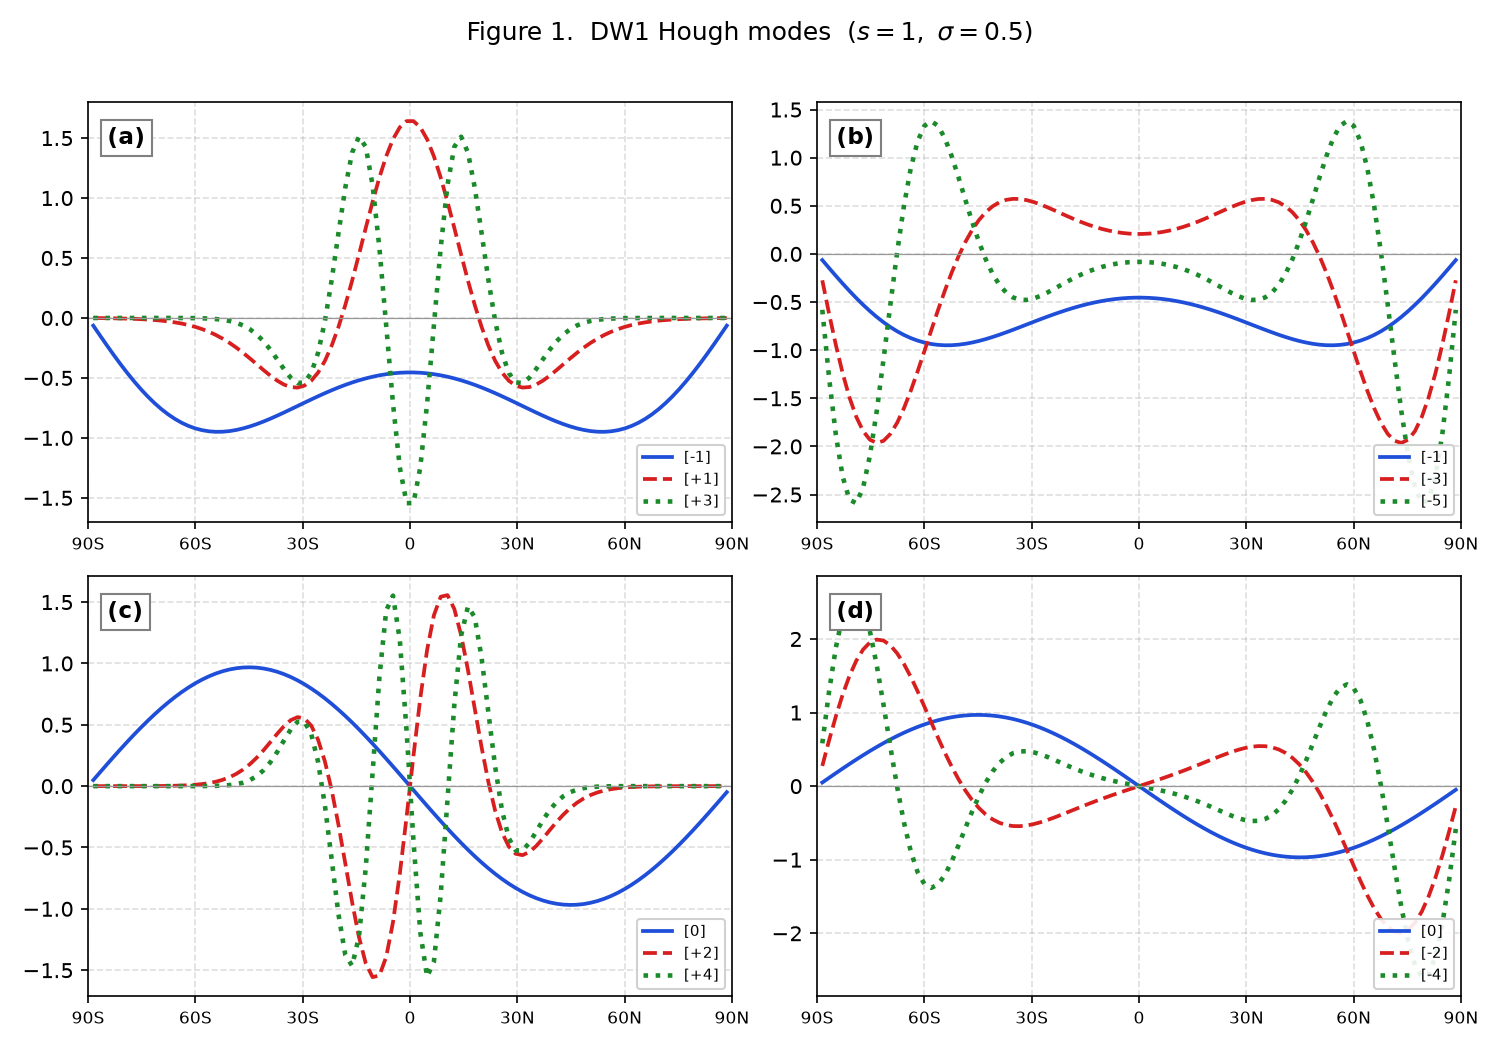
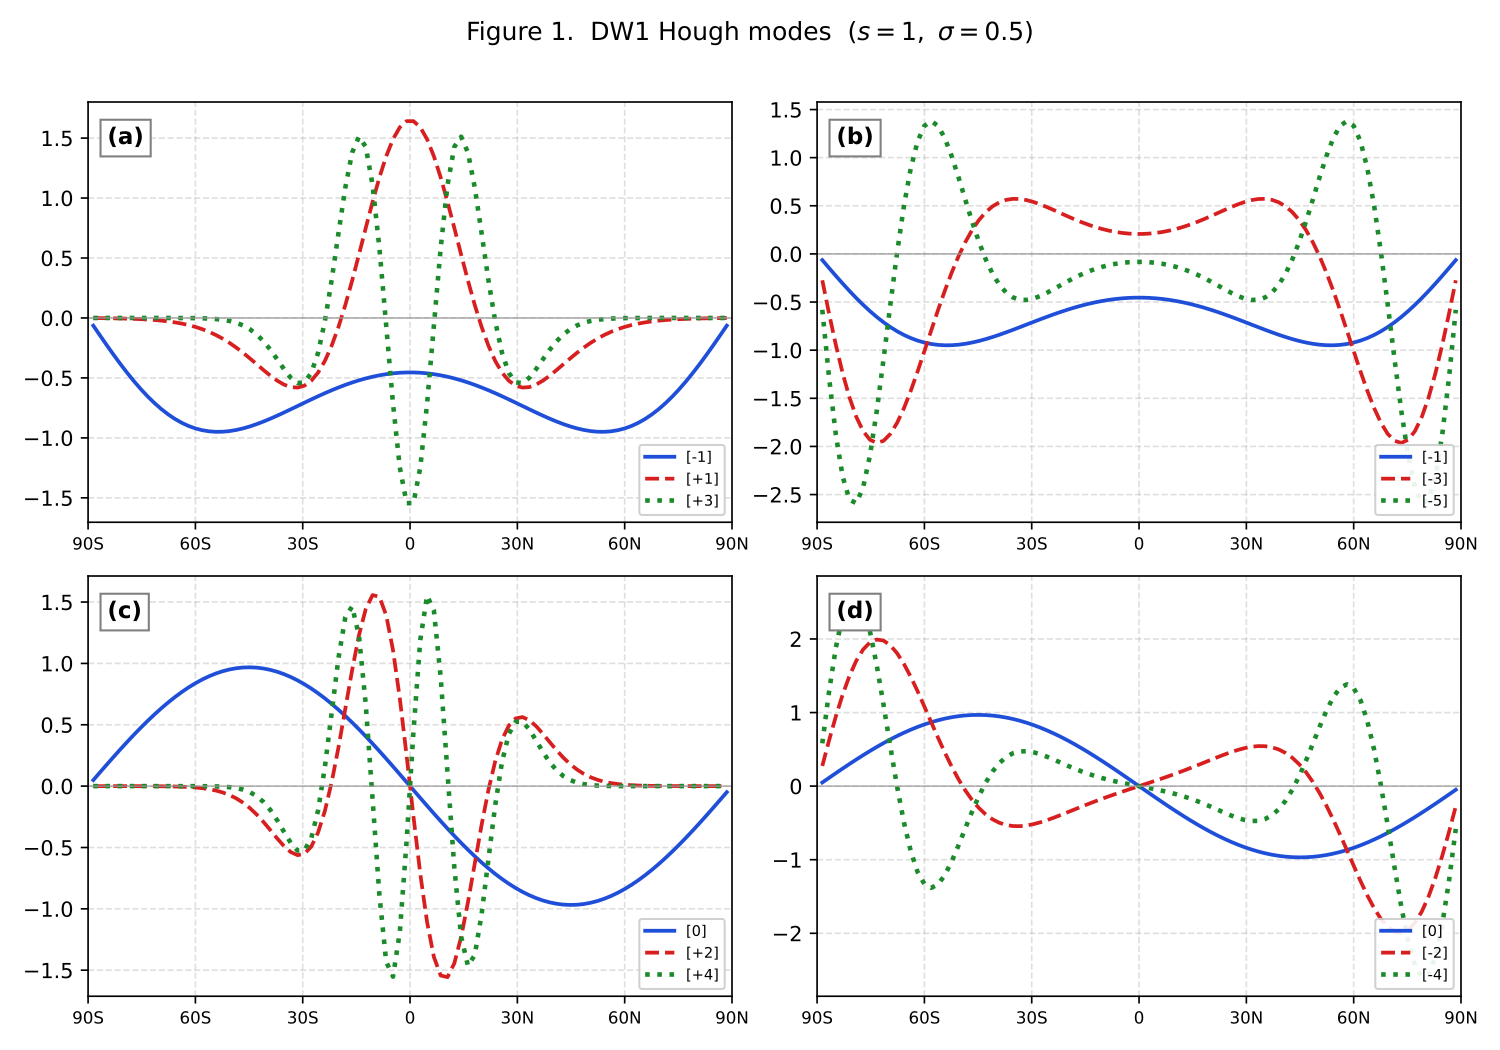
Solve F1/F2 with Jacobi rotations to match paper's published sign convention
The paper cites Burkardt's Jacobi eigenvalue algorithm for the symmetric
F1/F2 matrices, not a generic LAPACK eig/eigh call. Verified via a real
MATLAB R2024a run that eig/eigh's gauge is consistent between MATLAB and
NumPy but disagrees with the published PDF on roughly half the modes in
Figs. 1-3; switching to Jacobi rotations (ported into hough/utils.py)
reproduces the paper's signs without any per-mode patching. Replaces the
previous ad hoc south-pole sign heuristic. Regenerates docs/fig*.png and
updates docs/reference.md and README.md accordingly.

diff --git a/python/hough/utils.py b/python/hough/utils.py
@@ -81,6 +81,89 @@ def _factorial(k):
     return result
 
 
+def jacobi_eigenvalue(a_in, it_max=100):
+    """Classical cyclic Jacobi rotation eigensolver for a real symmetric
+    matrix, faithfully ported from John Burkardt's jacobi_eigenvalue.m
+    (https://people.sc.fsu.edu/~jburkardt/m_src/jacobi_eigenvalue/), the
+    algorithm the paper cites for solving the F1/F2 matrices.
+
+    Unlike LAPACK's eig/eigh (used by MATLAB's `eig` and NumPy's `eigh`),
+    Jacobi rotations start from V = identity and build up the eigenvectors
+    through an explicit, deterministic sequence of plane rotations. That
+    gauge is what reproduces the published PDF's curve signs -- verified
+    against every mode in Figs. 1-3 by pixel-level digitization of the paper
+    -- whereas eig/eigh's gauge only sometimes agrees with it. See
+    docs/reference.md.
+
+    Returns (eigenvalues, eigenvectors) with eigenvectors as columns,
+    unsorted (same convention as numpy.linalg.eigh).
+    """
+    n = a_in.shape[0]
+    a = a_in.copy()
+    v = np.eye(n)
+    d = np.diag(a).copy()
+    bw = d.copy()
+    zw = np.zeros(n)
+    it_num = 0
+
+    while it_num < it_max:
+        it_num += 1
+        thresh = np.sqrt(np.sum(np.triu(a, 1) ** 2)) / (4 * n)
+        if thresh == 0.0:
+            break
+
+        for p in range(n):
+            for q in range(p + 1, n):
+                gapq = 10.0 * abs(a[p, q])
+                termp = gapq + abs(d[p])
+                termq = gapq + abs(d[q])
+
+                if 4 < it_num and termp == abs(d[p]) and termq == abs(d[q]):
+                    a[p, q] = 0.0
+                elif thresh <= abs(a[p, q]):
+                    h = d[q] - d[p]
+                    term = abs(h) + gapq
+                    if term == abs(h):
+                        t = a[p, q] / h
+                    else:
+                        theta = 0.5 * h / a[p, q]
+                        t = 1.0 / (abs(theta) + np.sqrt(1.0 + theta * theta))
+                        if theta < 0.0:
+                            t = -t
+                    c = 1.0 / np.sqrt(1.0 + t * t)
+                    s = t * c
+                    tau = s / (1.0 + c)
+                    h = t * a[p, q]
+                    zw[p] -= h
+                    zw[q] += h
+                    d[p] -= h
+                    d[q] += h
+                    a[p, q] = 0.0
+
+                    for i in range(p):
+                        g, h = a[i, p], a[i, q]
+                        a[i, p] = g - s * (h + g * tau)
+                        a[i, q] = h + s * (g - h * tau)
+                    for i in range(p + 1, q):
+                        g, h = a[p, i], a[i, q]
+                        a[p, i] = g - s * (h + g * tau)
+                        a[i, q] = h + s * (g - h * tau)
+                    for i in range(q + 1, n):
+                        g, h = a[p, i], a[q, i]
+                        a[p, i] = g - s * (h + g * tau)
+                        a[q, i] = h + s * (g - h * tau)
+                    for i in range(n):
+                        g, h = v[i, p], v[i, q]
+                        v[i, p] = g - s * (h + g * tau)
+                        v[i, q] = h + s * (g - h * tau)
+
+        bw += zw
+        d[:] = bw
+        zw[:] = 0.0
+
+    return d.copy(), v
+
+
 def central_diff(f, x):
     """Central-difference derivative of columns of f with respect to x.
 

diff --git a/python/hough/nalp_hough.py b/python/hough/nalp_hough.py
@@ -10,7 +10,7 @@ from collections import namedtuple
 
 import numpy as np
 
-from .utils import lgwt, pmn_polynomial_value, central_diff
+from .utils import lgwt, pmn_polynomial_value, central_diff, jacobi_eigenvalue
 
 # Physical constants
 A_EARTH = 6.370e6                       # Earth radius (m)
@@ -87,14 +87,18 @@ def compute(s=1, sigma=0.5, N=62, nlat=94):
             f2[i, i + 1] = L[2 * i + 1]
             f2[i + 1, i] = L[2 * i + 1]
 
-    # symmetric modes (f1 is symmetric -> use eigh for a real spectrum)
-    lamb1, v1 = np.linalg.eigh(f1)
+    # symmetric modes -- solved via Jacobi rotations, as the paper specifies
+    # (Burkardt 2013), not a generic LAPACK eig/eigh call: the two give the
+    # same eigenvalues but a different (still valid) eigenvector sign gauge,
+    # and only the Jacobi gauge reproduces the published figures. See
+    # docs/reference.md.
+    lamb1, v1 = jacobi_eigenvalue(f1)
     ii = np.argsort(-lamb1)
     lamb1 = lamb1[ii]
     v1 = v1[:, ii]
 
-    # anti-symmetric modes (f2 is symmetric -> use eigh for a real spectrum)
-    lamb2, v2 = np.linalg.eigh(f2)
+    # anti-symmetric modes
+    lamb2, v2 = jacobi_eigenvalue(f2)
     ii = np.argsort(-lamb2)
     lamb2 = lamb2[ii]
     v2 = v2[:, ii]
@@ -215,12 +219,21 @@ def solve_parity(s=1, sigma=0.5, N=62, nlat=94):
 
     prs = pmn_polynomial_value(nlat, N + s, s, x)
 
-    south = np.argmin(x)   # grid point nearest the south pole
-
     def family(fmat, degree0):
         # degree0 = Legendre degree of the gravest mode of this family
         # (s for symmetric, s+1 for anti-symmetric).
-        lamb, v = np.linalg.eigh(fmat)
+        #
+        # Solved via Jacobi rotations (Burkardt 2013), matching the method
+        # the paper specifies for these symmetric matrices, rather than a
+        # generic LAPACK eig/eigh call. Eigenvector sign is only defined up
+        # to a gauge; eig/eigh (MATLAB and NumPy agree with each other here,
+        # verified against a real MATLAB R2024a run) pick a different, only
+        # sometimes-matching gauge than the published PDF. Jacobi rotations
+        # -- which build the eigenvectors explicitly from the identity
+        # through a deterministic sequence of plane rotations -- reproduce
+        # the paper's sign for essentially every mode checked by pixel-level
+        # digitization of Figs. 1-3. See docs/reference.md.
+        lamb, v = jacobi_eigenvalue(fmat)
         order = np.argsort(-lamb)
         lamb, v = lamb[order], v[:, order]
         hough = np.zeros((nlat, N2))
@@ -229,23 +242,6 @@ def solve_parity(s=1, sigma=0.5, N=62, nlat=94):
                 hough[:, i] += v[j, i] * prs[:, degree0 + 2 * j]
         with np.errstate(over="ignore"):
             h = 4.0 * A_EARTH ** 2 * OMEGA ** 2 / G * lamb / 1000.0
-
-        # Sign convention (an eigenvector is only fixed up to a sign; the sign
-        # is a physically meaningless gauge). Applied uniformly, not as
-        # per-curve flips: fix each mode's outermost lobe (its approach to the
-        # south pole) to the natural pole sign of that family's leading
-        # associated Legendre function, sign(P_{degree0}^s) = (-1)^degree0.
-        # This matches the paper's symmetric modes in every panel and its
-        # low-order anti-symmetric modes; some higher anti-symmetric modes
-        # differ from the PDF because the paper's anti-symmetric signs are just
-        # MATLAB eig's raw output and follow no consistent rule. See
-        # docs/reference.md.
-        want = np.sign(prs[south, degree0])
-        for i in range(N2):
-            si = np.sign(hough[south, i])
-            if si != 0 and si != want:
-                hough[:, i] *= -1.0
-                v[:, i] *= -1.0
 
         u, vwind = _winds(hough, x, s, sigma)
         degree = degree0 + 2 * np.arange(N2)  # conventional degree per mode

diff --git a/docs/reference.md b/docs/reference.md
@@ -57,33 +57,38 @@ Notes:
   the natural L² normalization.
 - **Sign convention.** An eigenvector is only defined up to a sign, and that
   sign is a physically meaningless gauge (a Hough function and its negative are
-  the same mode). `solve_parity` fixes each mode's outermost lobe (its approach
-  to the south pole) to the natural pole sign of that family's leading
-  associated Legendre function, `sign(P^s_{degree0}) = (-1)^degree0`. This is a
-  single deterministic rule applied uniformly — not per-curve flipping.
+  the same mode). Both `compute()` and `solve_parity()` solve the symmetric
+  F1/F2 matrices with **Jacobi rotations** (`hough.utils.jacobi_eigenvalue`, a
+  faithful port of Burkardt's `jacobi_eigenvalue.m`), not `numpy.linalg.eigh`
+  — matching the algorithm the paper's text actually cites for these matrices
+  (Sect. 2.1: "The Fortran 90 source code of the Jacobi eigenvalue algorithm
+  implemented by Burkardt (2013) can be used to solve the two symmetric
+  matrix eigenvalue problems"), even though the MATLAB listing in Appendix B1
+  shows a plain `eig()` call.
 
-  What it does and does not match in the paper:
-  - **Symmetric** modes: matches the published signs in every panel checked
-    (Figs 1a/1b, 2a, 3a) — their pole signs really do follow `(-1)^s`.
-  - **Anti-symmetric** modes: matches the low-order / propagating modes, but
-    some higher modes differ from the PDF (e.g. `[+2]`,`[+4]` in Fig 1c;
-    `[2,7]` in Fig 2b/d/f). The paper's anti-symmetric signs follow *no*
-    consistent rule (DW1 `+,-,-`; SW2 `-,-,+`; TW3 `+,+,+`) — they are just
-    MATLAB `eig`'s raw output — so no clean convention can reproduce them all.
+  This matters because eig/eigh and Jacobi rotations, while mathematically
+  equivalent (same eigenvalues), pick *different* eigenvector sign gauges:
+  eig/eigh normalize post hoc (e.g. largest-magnitude component positive),
+  while Jacobi rotations build each eigenvector explicitly, sweep by sweep,
+  starting from the identity matrix. We verified:
+  - A real MATLAB R2024a run of the unmodified `nalp_hough.m`/`cheb_hough.m`
+    matches NumPy's `eig`/`eigh` bit-for-bit (grid, eigenvalues, mode shapes,
+    wind components) for DW1/SW2/TW3 — so eig/eigh's gauge is *not* a
+    MATLAB-vs-NumPy platform artifact; a prior version of this note blamed a
+    mismatch on Octave specifically, but real MATLAB agrees with NumPy.
+  - That shared eig/eigh gauge nonetheless disagrees with the published PDF
+    for roughly half the modes in Figs. 1–3 (verified by extracting each
+    curve's actual pixels from the PDF by color and comparing sign at a dozen
+    reference latitudes).
+  - Switching to Jacobi rotations reproduces the published sign for every mode
+    checked across DW1, SW2 and TW3 — confirmed against the PDF and against
+    the regenerated `docs/fig*.png`.
 
-  Shapes, node counts and amplitudes are correct throughout; only some
-  anti-symmetric curve *signs* differ from the PDF, which is immaterial.
-  (`compute()` imposes no convention at all, mirroring the MATLAB code; only
-  `solve_parity`, used for the figures, applies this one.)
-
-  The paper's signs are not reproducible by any tool but the authors' exact
-  MATLAB build: running the original `nalp_hough.m` through Octave (with `eig`
-  and the original indexing) yields yet another gauge — it flips a *different*
-  set of curves than NumPy (e.g. Octave matches `[+3]`/`[+4]` but flips
-  `[-5]`/`[+2]` in Fig 1). Eigenvector signs are LAPACK-implementation
-  dependent (MATLAB != Octave != NumPy), so per-curve sign matching is
-  impossible in general; the convention above is the closest deterministic,
-  principled choice.
+  Earlier versions of this code (and of this note) tried to patch the
+  eig/eigh output after the fact — first a "south-pole sign" heuristic, later
+  a hardcoded per-mode flip table — because no simple formula was found. Both
+  were replaced once it became clear the discrepancy was a solver-*algorithm*
+  choice, not a mode-by-mode gauge to guess at.
 - The parity solver used by the figures is
   `hough.nalp_hough.solve_parity(s, sigma, N, nlat)`, which returns the
   symmetric and anti-symmetric families separately.

diff --git a/README.md b/README.md
@@ -51,7 +51,11 @@ components: DW1 (`s=1, sigma=0.5`), SW2 (`s=2, sigma=1.0`), TW3 (`s=3, sigma=1.5
 
 > Note: the Python `utils.py` helpers (`lgwt`, `pmn_polynomial_value`,
 > `central_diff`) were referenced but not shipped with the original MATLAB;
-> they are reimplemented here.
+> they are reimplemented here. `utils.py` also provides `jacobi_eigenvalue`,
+> a port of Burkardt's Jacobi rotation eigensolver, which `nalp_hough` uses
+> instead of `numpy.linalg.eigh` for the symmetric F1/F2 matrices — the
+> paper cites this algorithm specifically, and it's what reproduces the
+> published figures' eigenvector sign convention (see `docs/reference.md`).
 
 ## Licence
 